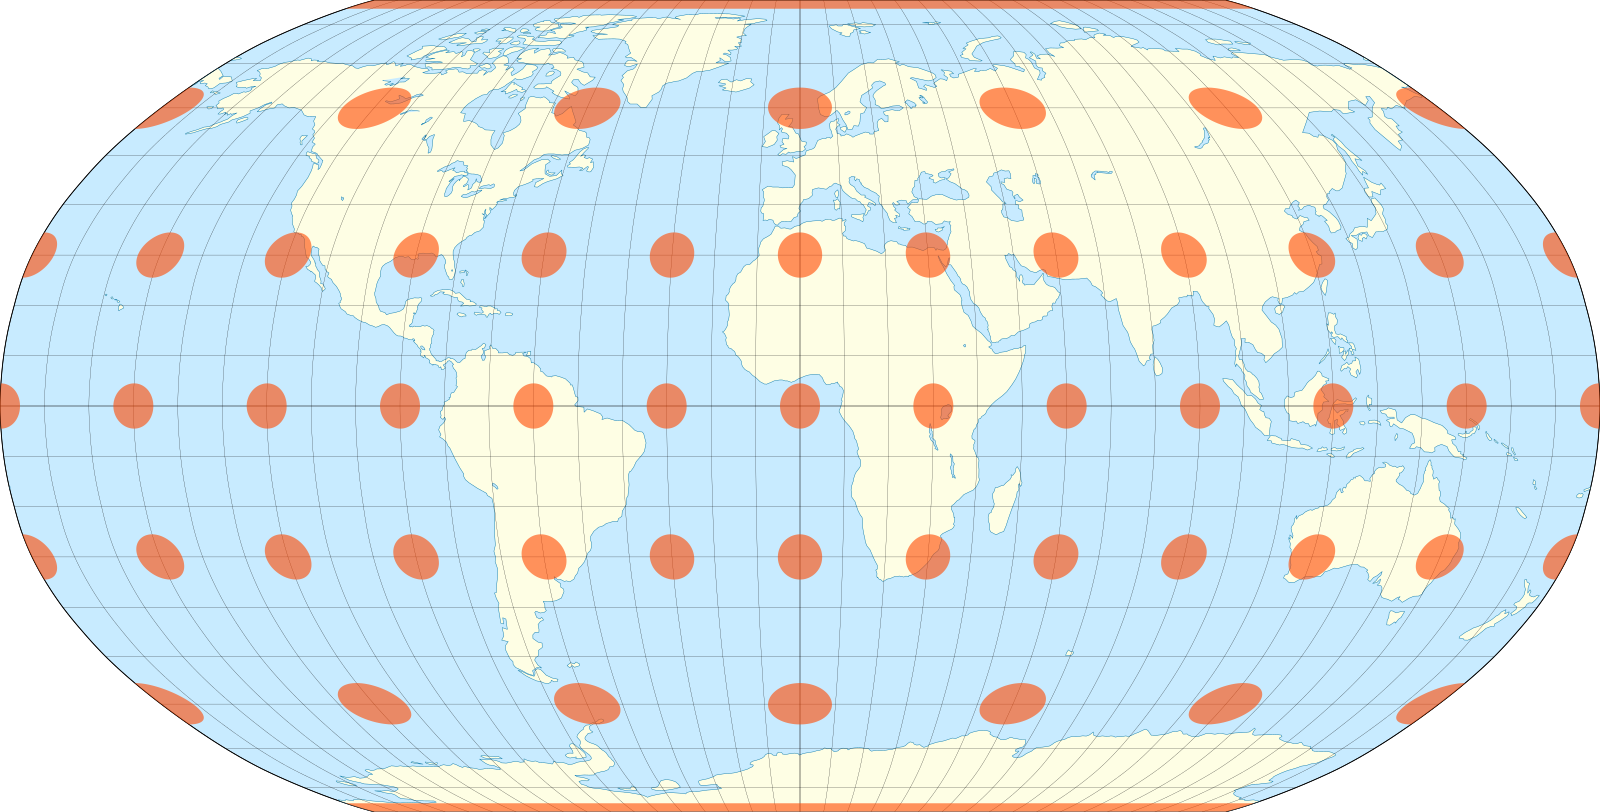
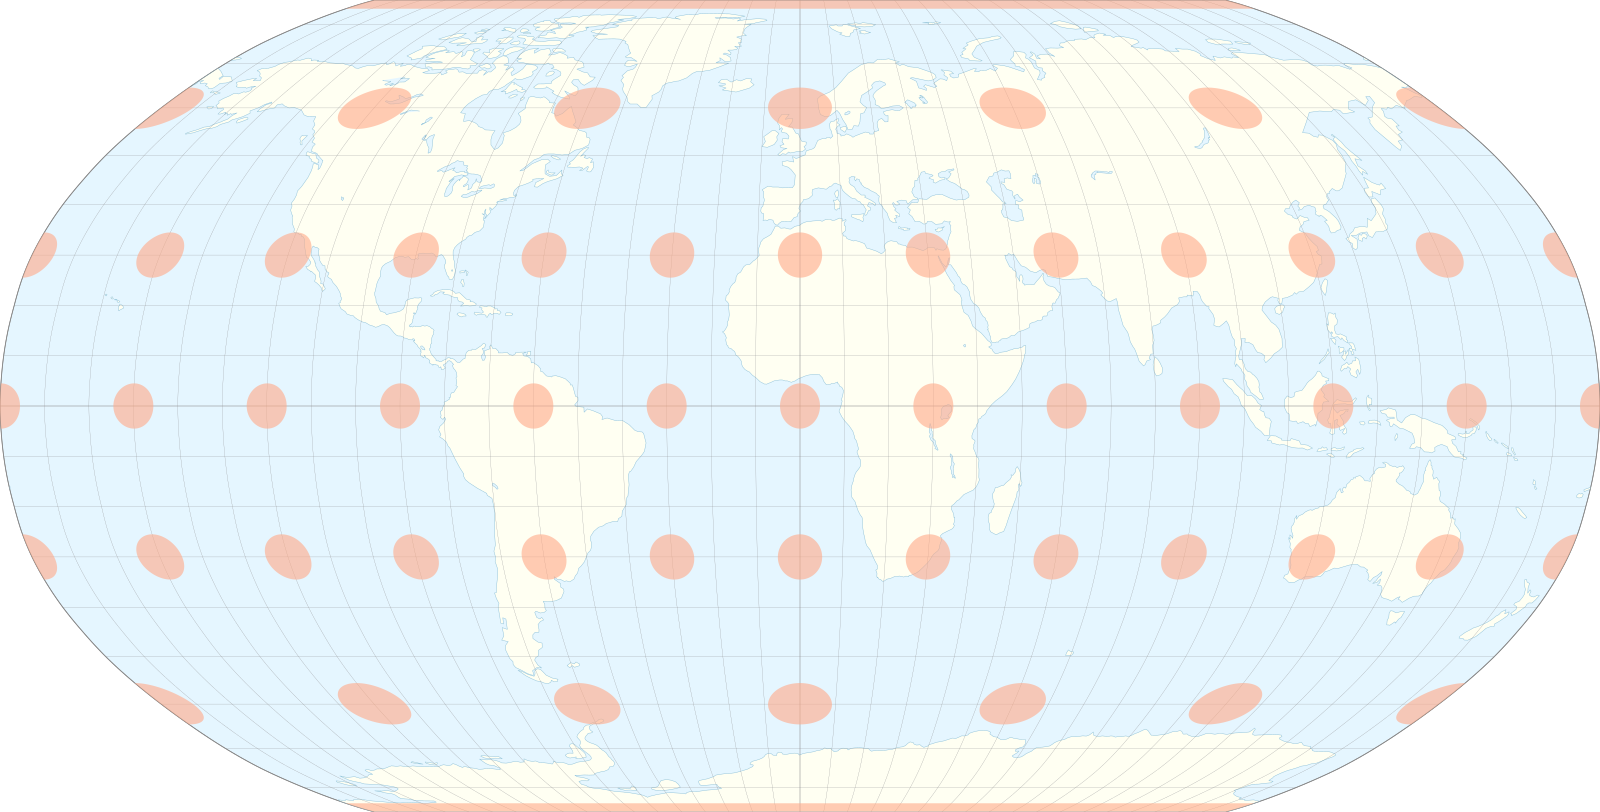
Aligned projection to overlay and made overlay semi-transparent

diff --git a/app/src/main/java/lakkie/flight/globepanel/GlobePanel.java b/app/src/main/java/lakkie/flight/globepanel/GlobePanel.java
@@ -124,7 +124,7 @@ public class GlobePanel extends JPanel implements MouseMotionListener, MouseList
         g.drawString("World Y: " + currentWorldY, 5, 25);
         g.drawString("Zoom Scalar " + zoomScalar, 5, 35);
         if (showMouseCoords) {
-            g.setColor(Color.BLACK);
+            g.setColor(Color.GREEN);
             g.drawString(String.format("(%d, %d)", mouseX, mouseY), mouseX, mouseY);
         }
         g.setColor(Color.BLUE);
@@ -156,6 +156,7 @@ public class GlobePanel extends JPanel implements MouseMotionListener, MouseList
         AffineTransform originalTransform = g2d.getTransform();
         g2d.setTransform(getCameraTransform(originalTransform));
 
+        // TODO make this toggleable
         if (mapImage != null) {
             g2d.drawImage(mapImage, -355, -141, 20450, 10350, null);
         }

diff --git a/app/src/main/java/lakkie/flight/globepanel/ProjectionConverter.java b/app/src/main/java/lakkie/flight/globepanel/ProjectionConverter.java
@@ -4,8 +4,7 @@ package lakkie.flight.globepanel;
 
 public class ProjectionConverter {
 
-    // public static final int CANVAS_OFFSET_X = -275, CANVAS_OFFSET_Y = 690;
-    public static final int CANVAS_OFFSET_X = -355, CANVAS_OFFSET_Y = -141;
+    public static final int CANVAS_OFFSET_X = -355, CANVAS_OFFSET_Y = -140;
 
     private double mapWidth;
     private double mapHeight;
@@ -33,7 +32,7 @@ public class ProjectionConverter {
         Point point = project(lat, lng);
         double canvasX = point.x + (mapWidth / 2);
         double canvasY = (mapHeight / 2) - point.y;
-        return new Point(canvasX, canvasY);
+        return new Point(canvasX + CANVAS_OFFSET_X, canvasY + CANVAS_OFFSET_Y);
     }
 
     public Point projectToScreen2(double lat, double lng) {

diff --git a/app/src/test/java/lakkie/flight/TestTrackerResults.java b/app/src/test/java/lakkie/flight/TestTrackerResults.java
@@ -15,7 +15,7 @@ public class TestTrackerResults {
 
     @Test
     void testQueryResults() throws IOException, InterruptedException {
-        FR24TrackerResults.queryTracker(System.getProperty("FR24_SERVER_URL"));
+        // FR24TrackerResults.queryTracker(System.getProperty("FR24_SERVER_URL"));
     }
 
 }
